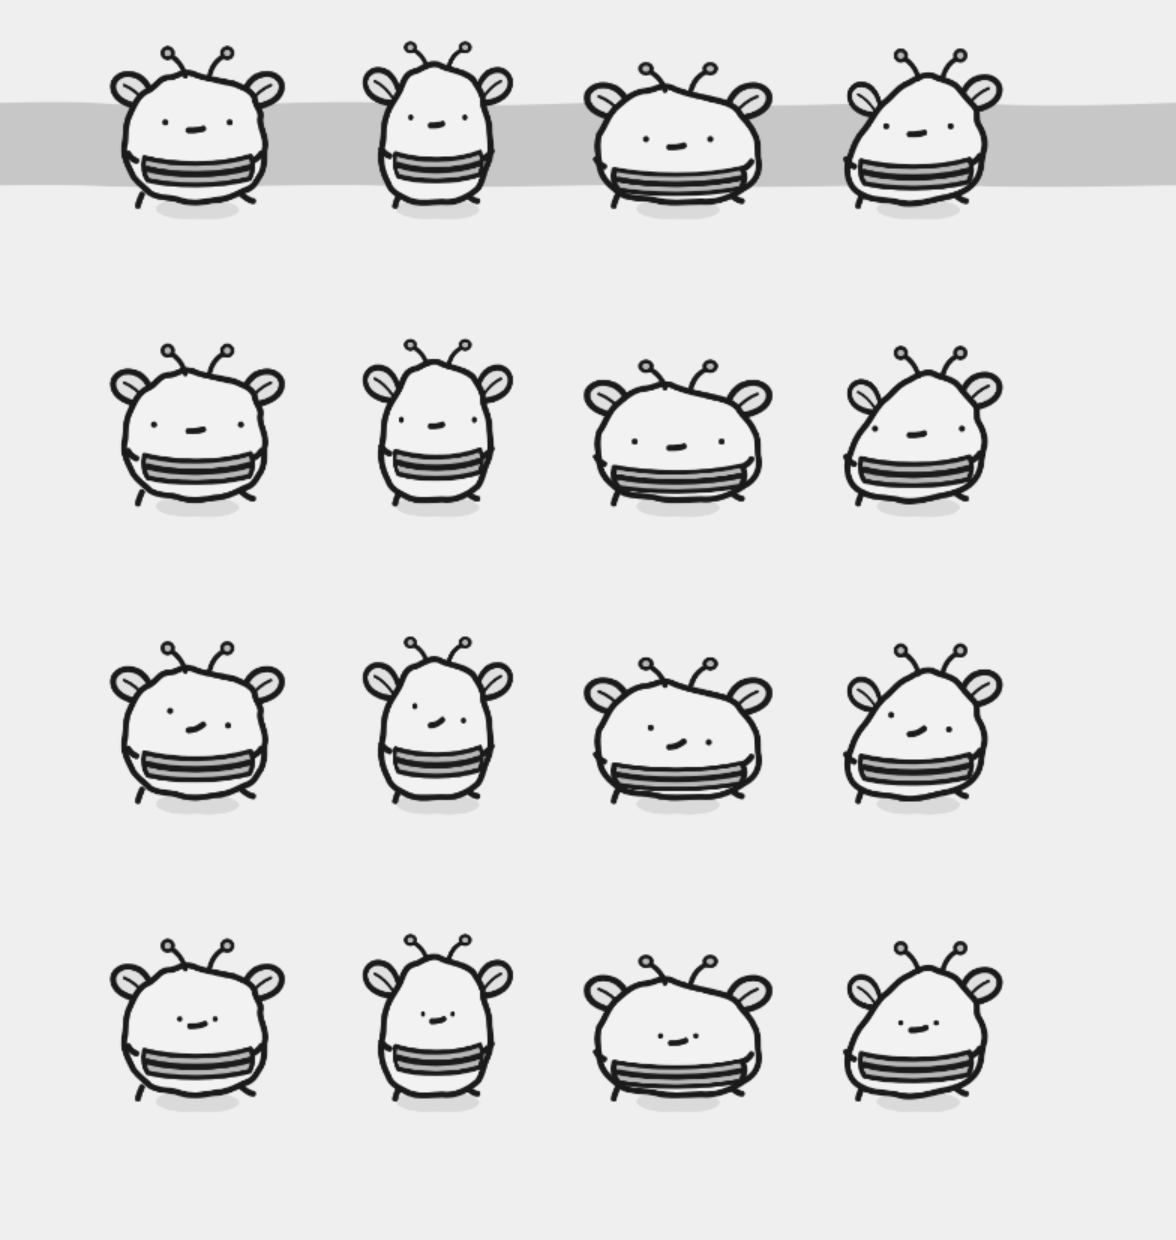
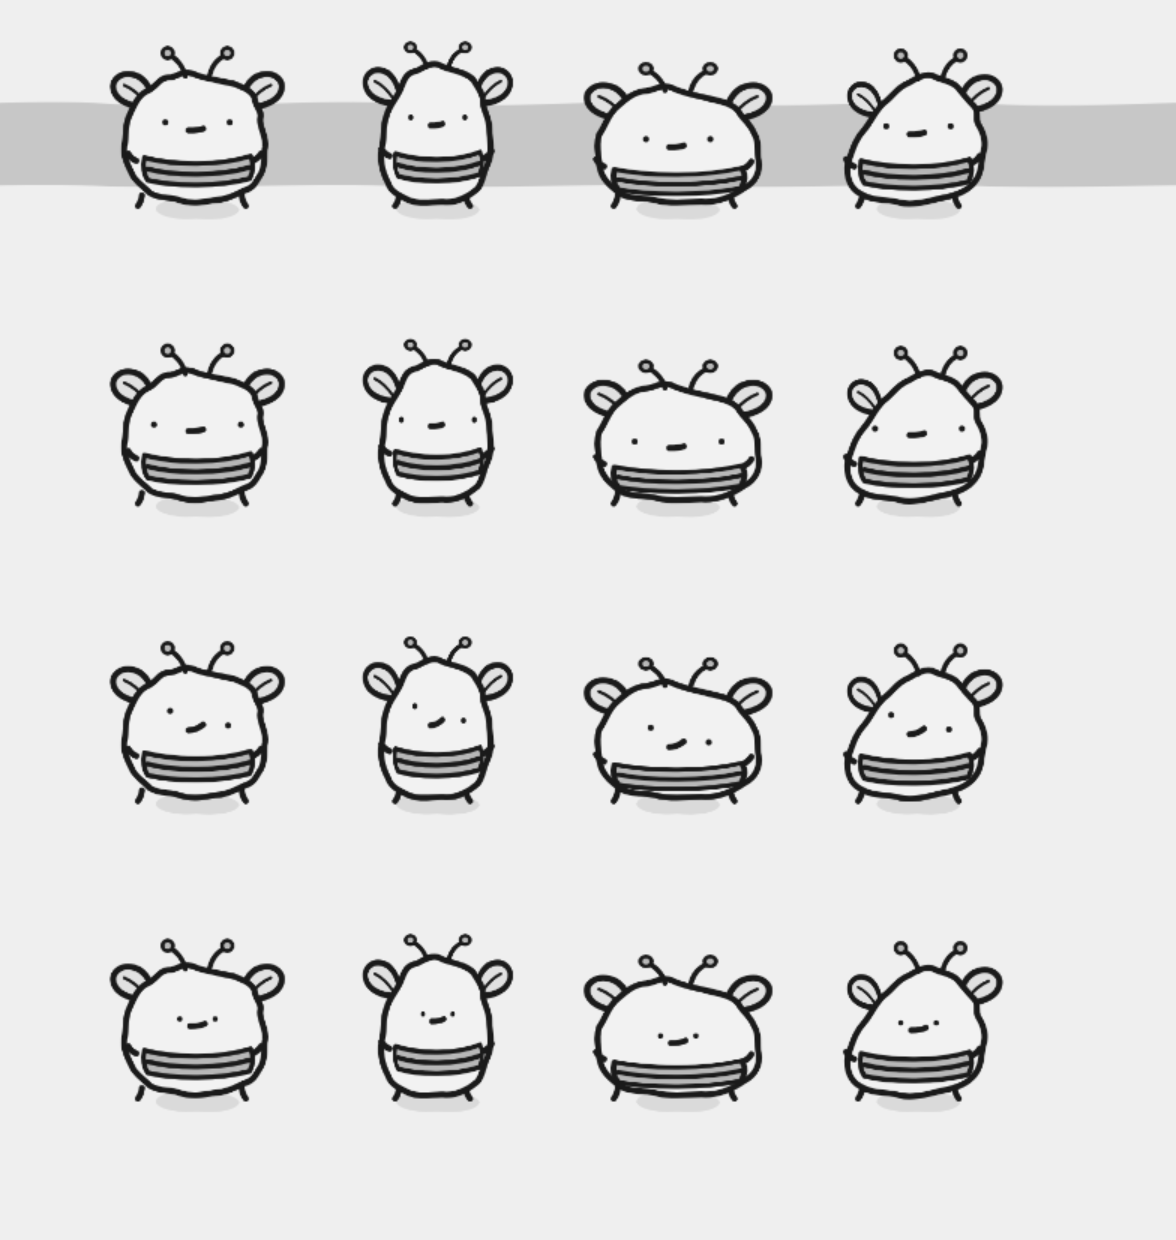
NEW-KIDS: Codex's art review, round 1; a costume checker for every pose
Codex found the wand missing the arm in the wave frames, the umbrella shaft missing it
on the squat body, and two props a fraction of a pixel outside their boxes.

- Wizard: the wand has a pommel at the grip, which sits on the arm in every pose.
- Umbrella: the shaft on the squat body moves out to the waving arm.
- Sleepy: the pillow is pulled inside the box; the nightcap's tail droops further.
- Bee: the band's stripe is 6 px, not 8.

scripts/check-kids.mjs (npm run art:kids) rasterises each checked costume on every body
in every pose and fails on anything outside the lifetime box, a held prop that does not
touch the arm, joined parts that do not touch, or a crowded face. CI runs it in a new
art job with art:check.

diff --git a/eslint.config.js b/eslint.config.js
@@ -10,7 +10,7 @@ export default tseslint.config(
     // art sources' generators (Codex's audio renderer).
     files: ['scripts/**/*.mjs', 'art/src/**/*.mjs'],
     languageOptions: {
-      globals: { process: 'readonly', Buffer: 'readonly', console: 'readonly', URL: 'readonly', document: 'readonly', Image: 'readonly', DOMParser: 'readonly', btoa: 'readonly', unescape: 'readonly' },
+      globals: { process: 'readonly', Buffer: 'readonly', console: 'readonly', URL: 'readonly', document: 'readonly', Image: 'readonly', DOMParser: 'readonly', btoa: 'readonly', unescape: 'readonly', OffscreenCanvas: 'readonly', Path2D: 'readonly' },
     },
   },
 );

diff --git a/docs/TESTING.md b/docs/TESTING.md
@@ -9,6 +9,7 @@ How the tests are laid out, how to run them, and how CI runs them.
 | Unit | `src/**/*.test.ts` (Vitest) | `npm test` | The sim, content, save, render helpers and UI logic |
 | End to end | `tests/e2e/*.spec.ts` (Playwright, Pixel 7 profile) | `npm run e2e` | The built app in Chromium, driven through the `?debug=1` hooks (`window.__PK__`) |
 | Art checks | `scripts/export-art.mjs` | `npm run art:check` | Every art source against the asset contract |
+| Costume checks | `scripts/check-kids.mjs` | `npm run art:kids` | Each checked costume in every body and pose: inside the lifetime box, held props touching the arm, joined parts touching, the face clear. `-- --all` reports on the whole roster |
 | Art previews | `tests/preview/` | `npm run art:preview` | Review captures through the real engine. Not part of CI |
 
 ## End-to-end layout
@@ -26,11 +27,12 @@ The end-to-end suite is one spec file per area, with shared helpers in `tests/e2
 
 ## CI
 
-`.github/workflows/ci.yml` runs four kinds of job side by side on every pull request and on
+`.github/workflows/ci.yml` runs five kinds of job side by side on every pull request and on
 every push to `main`:
 
 - `check`: typecheck, lint, unit tests, build.
 - `e2e`: six runners, each taking one sixth of the spec files (`--shard=N/6`) with one worker.
+- `art`: `npm run art:check` and `npm run art:kids`.
 - `android`: the debug APK.
 - `ci`: passes only when all of the above passed.
 
